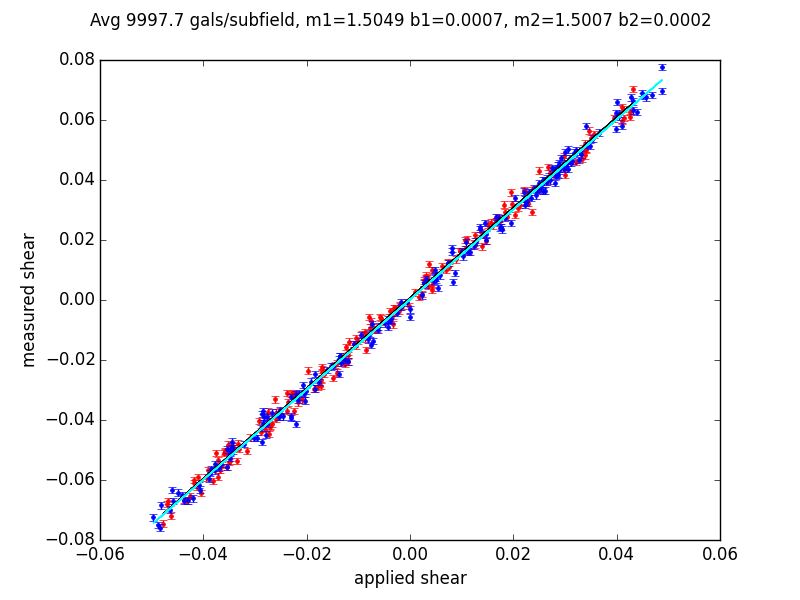
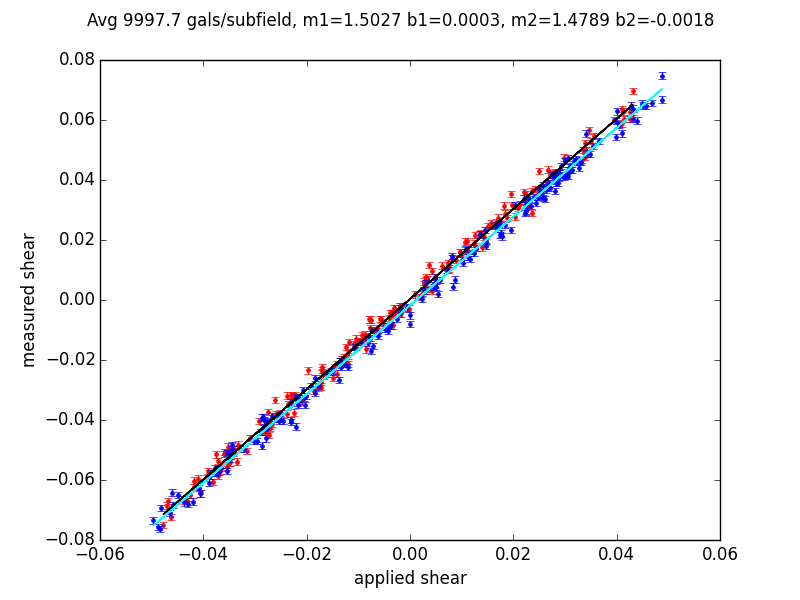
Review comment change

Changed region(s): [[0.1875, 0.12, 0.8438, 0.9], [0.0938, 0.0, 0.9062, 0.06]]

diff --git a/index.rst b/index.rst
@@ -38,28 +38,40 @@
 
 :tocdepth: 1
 
-This document describes a framework which was created to test how well shape measurement algorithms in the DM Stack can measure galaxy shear.  The targets algorithms for this framework are in the package meas_modelfit. This package houses both the CModel algorithm -- used to measure galaxy shapes) and the ShapeletPsfApprox Algorithm (SPA) -- used to create a parameterized model of the Psf (point spread function). However, the framework is set up to allow similar tests on other shape measurment algorithms.
+This document describes a framework which was developed to test DM Stack shape measurement algorithms, as well as to compare algorithm configurations. It can be used with any algorithm housed in a measurement "plugin" as defined by the lsst.meas.base package.  The plugin must produce a result which can be used to calculate galaxy ellipticity.
 
-Shear measurement was done on images created by Great3Sims and GalSim as described below.  However, the Point Spread Function (Psf) which was applied to the simulated galaxies was created by PhoSim using an LSST simulation.
+The algorithms tested in this document are in the meas_modelfit package, which houses both the CModel algorithm -- used to measure galaxy shapes) and the ShapeletPsfApprox Algorithm (SPA) -- used to create a parameterized model of the PSF (point spread function). Our goal was to run both PSF approximation and shape measurement on large numbers of simulated galaxies with known shear and PSF distortions, and to compare the shear measurements produced.
 
-Our goal was to run both Psf approximation and shape measurement algorithms on large numbers of galaxies that have been subjected to known constant shear and Psf distortions, and to characterize the shear bias of these algorithms.
+We hope in the future to test a variety of shape algorithms, including future versions of CModel, which was still under development when the test described here were done. The work described here is therefore of interest for the test techniques developed than for any particular result.
 
 Techniques used in this simulations
-=================================================
+===================================
 
-Using Great3Sims: 
--------------------------
-The great3-public repository (https://github.com/barnabytprowe/great3-public) provided the scripts for creating catalogs of galaxies. This package draws galaxy parameters at random from a known distribution, and selects a Psf and applied shear for each galaxy.  The outputs are an "epoch catalog" and a yaml file. The epoch catalog has one line per galaxy, and is used as the "truth" value in our later tests. The yaml file is fed to GalSim to create grids of postage stamps (in fits format) of the galaxies.
+Galaxy Shear Experiments Scripts
+--------------------------------
+
+The framework for running these tests can be found in the repository https://github.com/lsst-dm/galaxy_shear_experiments.  The README in this repository contains instructions for running this code.
+
+The Python scripts were used to automate the production of simulation images, running the shape measurement algorithm, and analysis for shear bias. The scripts can be used in single process mode, in a parallel processing mode on multiple core machines, or with a batch system such as the SLAC Batch Farm.
+
+Test configurations and the PSF libraries actually used are not currently part of this repository, but will be added in the future. Scripts for parallel processing at SLAC will also be added as they are completed.
+ 
+The great3sims scripts 
+----------------------
+
+The great3-public repository (https://github.com/barnabytprowe/great3-public) provided the scripts for creating catalogs of galaxies. This package draws galaxy parameters at random from a known distribution, and selects a PSF and applied shear for each galaxy.  The scripts can output an "epoch catalog" and a yaml file for each value of applied shear.  The epoch catalog has one row for each simulated galaxy, and gives the "true" galaxy characteristics and applied distortions. The yaml file and epoch catalog are in turn fed to GalSim, which creates a fits file of postage stamps of the galaxies.
 
 Branch Setup:
-^^^^^^^^^^^^
-Galaxy samples were created using the Great3sims "control/ground/constant" branch. Each subfield has a single constant shear and shear angle. The galaxies are created in pairs rotated at 90 degrees.  All galaxies in a subfield are subjected to the same applied shear.  
+^^^^^^^^^^^^^
+The galaxy samples were selected using the great3sims "control/ground/constant" branch. This branch specifies its galaxies in "subfields", where a subfield is just a group of galaxies with the same applied shear. The size of the postage stamps and the number of galaxies per subfield is configurable.  Details of the configuration used are described with each test below.
+ 
+Note that all of our simulations, the galaxies are created as 90 degree rotated pairs to reduce shape noise.
 
-One important modification to Great3Sims was to sample the Psf for each galaxy from a PhoSim Psf Library (described below). The Psf images were typically 67x67 pixels at the LSST plate scale.
+One important modification to great3Sims was to sample the PSF for each galaxy from a PhoSim PSF Library (described below). Ordinarily, great3sims supplies the PSF specification to GalSim as a parameterized model. We suppled our own PSF libraries (a set of 67x67 pixel images at the LSST plate scale), using the GalSim InterpolatedImage type.
 
-Using GalSim:
--------------------------
-See http://galsim-developers.github.io/GalSim for information about GalSim and how it is used. As discussed above, the Great3Sims package supplies an epoch catalog for each subfield, as well as a matching yaml file which feeds the galaxy parameters to GalSim.  The result is an image of galaxies on a grid which can be used to make cutouts for measurement.
+GalSim
+------
+See http://galsim-developers.github.io/GalSim for information about GalSim and how it is used. As discussed above, the great3Sims package supplies an epoch catalog for each subfield, as well as a matching yaml file which feeds the galaxy parameters to GalSim.  The result is a gridded image of galaxies which can be used to make galaxy postage stamps.
 
   .. figure:: /_static/sample_image-000-1.png
      :name: sample_images
@@ -69,27 +81,34 @@ See http://galsim-developers.github.io/GalSim for information about GalSim and h
 
 The epoch catalog is named epoch_catalog-nnn-m.fits, with nnn the ordinal number of the subfield, and m the epoch (always 0 in our tests).  GalSim creates a matching image-nnn-m.fits with a 96x96 pixel image for each galaxy in the sample.
 
-Creating the Phosim Psf Library:
--------------------------
-PhoSim is a ray tracing simulator which is used create images of galaxies and stars. This simulator has a description of the LSST telescope and camera, and will create simulated images with distortions due to variations in the atmosphere and optics. Please see https://confluence.lsstcorp.org/pages/viewpage.action?pageId=4129126 for a description of this software.
+Creating the Phosim PSF Library:
+--------------------------------
+PhoSim (version 3.4.2) is a ray tracing simulator which is used create images of galaxies and stars. This simulator has a description of the LSST telescope and camera, and will create simulated images with distortions due to variations in the atmosphere and optics. Please see https://confluence.lsstcorp.org/pages/viewpage.action?pageId=4129126 for a description of this software.  
 
-We used PhoSim to create stellar images scattered at random over the LSST focal plane. The LSST focal plane is divided into 21 rafts with 9 sensors per raft.  To create a library of Psf images, 10000 positions were selected at random and PhoSim was instructed to create a stellar image at each position.  After removing unusable stars (those which did not fall fully on any particular sensor, or which were close to another star), between 7000 and 8000 usable stellar images remained for each Psf library.
+We used PhoSim to create stellar images scattered at random over the LSST focal plane. The LSST focal plane is divided into 21 rafts with 9 sensors per raft.  To create a library of PSF images, 10000 positions were selected at random and PhoSim was instructed to create a stellar image at each position.  After removing unusable stars (those which did not fall fully on any particular sensor, or which were close to another star), between 7000 and 8000 usable stellar images remained for each PSF library.
 
-Psf libraries were created for "raw" seeing values of 0.5, 0.7, and 0.9 arcseconds through LSST filters (f2 and f3). The seeing is actually somewhat worse after all the simulated distortions are applied. 
+PSF libraries were created for "raw" seeing values of 0.5, 0.7, and 0.9 arcseconds through LSST filters f2 and f3 (r and i). The measured FWHM for these stellar images is actually somewhat worse after all the simulated distortions are applied. 
 
-Most of the tests during this cycle were run using the f3_0.7 library.  
+Most of the tests during this cycle were run using the f2_0.7 or f3_0.7 libraries.  
 
 Doing Measurements:
 -------------------------
 
-The goal of the framework is to compare the results of a shape measurement algorithm with the known constant shear values which stored in the epoch catalog.  The algorithm must be housed in an lsst.meas.base measurement plugin so that it can be used by the LSST DM Stack. And it must produce some measurement, such as second moments, which can be used to calculate galaxy ellipticity.
+The goal of the framework is to compare the results of some shape measurement plugin with the known shear values which stored in the epoch catalog.  The algorithm must be housed in an lsst.meas.base measurement plugin,  and it must produce either measure ellipticity, or some other value (e.g., second moments) which can be used to calculate ellipticity. 
 
-Our tests in this study were with the CModel algorithm in lsst.meas.modelfit package, but this framework could be used to test any shape algorithm which is housed in a measurement plugin.
+Our tests in this study were with the CModel algorithm with PSF modelling using ShapeletPsfApprox. The way in which these measurements are run is described in the galaxy_shear_experiments README.
 
 Shear Bias Analysis:
 ====================
 
-We wish to estimate the multiplicative and additive biases of our algorithm for both components of shear. For each shear component, this is done by plotting the measured shear against the applied shear from the epoch catalog.  The multiplicative bias is the slope of our regression line, and the additive bias is the intercept.
+We model shear bias as a combination of multiplicative bias (m) and additive bias (c)
+
+      gi = mi * g'i + ci
+
+where g = (g1,g2) is the true shear and g' = (g'1, g'2) is the measured shear.
+
+To estimate these values, we perform a linear regression of applied shear vs. measured shear for both shear components.
+
 
   .. figure:: /_static/figure_1.png
      :name: figure_1
@@ -97,14 +116,16 @@ We wish to estimate the multiplicative and additive biases of our algorithm for 
 
      Graph of regression line fit to 200 subfield measurements
 
+The individual points are for each of the 200 subfields: g1 values are shown in red, and g2 in blue. The g1 regression line is in black to make it visible on the plot.
+
 In this example, the regression lines lie very close to each other, with the measured shear multiplicatively biased by about +50%.  The intercepts deviate from zero by 7e-4 and 2e-4 respectively.
+
+Of the 10000 galaxies in each subfield, a small percentage could not be measured due to fatal measurement errors.
 
 Comparison of Shear Bias for Different Algorthms:
 -------------------------------------------------
 
-To see how different algorithms measure up against each other, we plot their shear biases against each other. In these tests we take what we regard as a preferred measurement, in this case a measurement using a high order fit of the Psf (3773) against lower order fits: SingleGaussian, DoubleGaussian, and Full. These are the default parameterizations of the meas_modelfit algorithm ShapeletPsfAlgorithm, which we shall explore in more detail later in this document.
-
-In this graph, we see how the Single and Double Gaussian fits of the Psf are very different than the high order fit, 3773.  The parameterization "Full", however is pretty close to the 3773 algorithm in all four shear bias values.
+To see how different algorithms measure up, we plot their shear biases against each other. The plot shown below is a comparison of different parameterizations of the ShapeletPsfApprox(SPA) algorithm. Here, we compare a high order fit of the PSF (3773) against three lower order fits: SingleGaussian, DoubleGaussian, and Full. These are the predefined SPA parameterizations, and will be described in more detail later in this document.
 
   .. figure:: /_static/figure_3.png
      :name: figure_3
@@ -112,53 +133,51 @@ In this graph, we see how the Single and Double Gaussian fits of the Psf are ver
 
      Comparison of shear bias for different algorithms
 
+Note that the errorbars are shown in this graph, but are very small compared to the range of shear biases produced by these algorithms.
+
 How errors were determined:
 ---------------------------
 
-In the tests discussed below, we really ran only one simulation for each test. 
-However, the large number of galaxies are really needed just to beat down the shot noise. Running 10 or even 20 samples of this size and measuring the variation between samples would be a useful technique for estimating the errors in our shear biases measurements.
+The errors in the shape bias were based on the difference between the measured and applied shear in each subfield. We calculated our errors in two ways. One was to use error estimators from each subfield to analytically determine the errors in the shear bias values. The other was to use a bootstrap technique to see how the regression values actually varied within resampled distributions.
 
+In our test, we ran only one simulation for each test. Running 10 or even 20 samples of the same size and measuring the variation between samples would have been a useful technique for more accurately estimating the errors, and should be done in the future.
 
-Wwe did not run multiple instances of the 2 million galaxy simulation, and we calculated our errors by attempting to look at the variation within the shear measurements in each subfield. We calculated our errors in two ways. One was to use estimators of the errors from each subfield to analytically determine the errors in the slope and intercept measurements. The other was to use a bootstrap technique to see how the bias parameters varied within resampled distributions.
+1. Calculated Errors
+^^^^^^^^^^^^^^^^^^^^
 
-1. Estimating the error of the mean in each subfield. 
-^^^^^^^^^^^^^^^^^^^^^^^^^
+If (e1,e2) is the measure of the galaxy ellipticity and (g1,g2) is the applied shear, the deviation of (e1-g1,e2-g2) from (0,0) is a measure of the error. Of course, this measurement is dominated by shape noise, so we average over an subfields which contain large number of galaxies with the same applied shear.
 
-If (e1,e2) is the measure of the galaxy ellipticity and (g1,g2) is the applied shear, the deviation of (e1-g1,e2-g2) from (0,0) is a measure of our error.  Of course, this measurement is dominated by shape noise. By averaging e1 and e2 over and entire subfield, we get an estimator of the applied shear, as well as the error in this estimation.
-
-Since the regression to determine m1, c1, m2 and c2 uses as its data the (e1avg, e2avg)  vs. (g1, g2), we can use the errors in e1avg and e2avg to determine the errors in the regression values.  See Numerical Recipes section 15.2 for a description of this calculation.
+Since the regression to determine m1, c1, m2 and c2 uses as its data the (e1avg, e2avg)  vs. (g1, g2), we can use the errors in e1avg and e2avg to determine the errors in the regression values.  See William H. Press, Numerical Recipes, 3rd edition, section 15.2 for a description of this calculation.
 
 2.  Bootstrap estimation
 ^^^^^^^^^^^^^^^^^^^^^^^^^
 
-However, since we did not entirely trust the approach under (1), we attempted a second approach using bootstrapping to produce different resampled populations of galaxies from out single set of 2 million galaxies. This allowed us to do the shear bias calculation multiple times and observe the variation in the shear parameters on these different populations. The great3sims subfields are actually 5000 galaxy pairs, so our resampling was actually done by drawing from each sample of 5000 with replacement.
+We did not entirely trust the approach under (1), so we used bootstrap resampling to produce different resampled populations of galaxies from our single set of 2 million galaxies. This allowed us to do the shear bias calculation multiple times and observe the variation in the shear parameters on these different populations. The great3sims subfields are actually 5000 galaxy pairs, not 10000 independent galaxies, so we actually resampled in pairs.
 
 The bootstrap method consistently gives an error which is larger than the analytic approach by a factor of 2.1-2.3.
 
-Since the bootstrap estimation indicates a larger error, we decided to increase our errors uniformly by a factor of 2.2 for this study.
+Since the ratio of the two was roughly constant and the calculated error is easier to get, we uniformly took as our error the calculated error multiplied by 2.2.
 
 Testing Parameterizations of ShapeletPsfApprox (DM-1136 and DM-4214)
-========================
+====================================================================
 
-These are a set of tests which are intended to test ShapeletPsfApprox(SPA), and in particular, to find the shapelet order above which there is little additional value.  SPA is a four component “multi-shapelet function” model of the Psf, where the four components from narrowest to broadest are named “inner”, “primary”, “wings”, and “outer”.  An SPA model is designated in this document with four numbers:  for example, 1234 means inner order = 1, primary order = 2, wings order = 3, and outer order = 4.
+This set set of tests were intended to test ShapeletPsfApprox(SPA), and in particular, to find out how high the shapelet orders have to be to produce a stable PSF estimation.  SPA is a four component “multi-shapelet function” model of the PSF, where the four components (from narrowest to broadest) are named “inner”, “primary”, “wings”, and “outer”.  An SPA model is designated in this document with four numbers:  for example, 1234 means inner order = 1, primary order = 2, wings order = 3, and outer order = 4.
 
 Test setup
 --------------
 
-Subfields: 10000 galaxies/subfield in 5000 pairs, all with the same applied shear and shear angle
- 
-          200 subfields total (2 million galaxies) at a variety of shear and shear angles
+Subfields: 100x100 (10000 galaxies in 5000 pairs). A total of 200 subfields for each test, with g1 and g2 selected from the great3sims default distribution.
 
-Psf: filter f2 and "raw seeing" 0.7 arcsecs. Single Psf selected from f2_0.7 PhoSim library.
+PSF: filter f2 (r) and "raw seeing" 0.7 arcsecs. Single PSF selected from f2_0.7 PhoSim library.
 
-Error estimation increased by x2.2 as indicated by bootstrap tests.
+Error estimation increased by multiplying the calculated error by 2.2.  This correction was indicated by bootstrap tests.
 
 
-Finding "best" parameterization for ShapeletPsfApprox.
---------------
+Finding "best" parameterization for ShapeletPsfApprox
+-----------------------------------------------------
 We are hoping to find out how high the order of the estimation parameters must be before our measurement of the bias parameters plateaus.
 
-Comparing parameterization is a little tricky, as the effects of the parameters are not independent of each other.  To make this comparison more tractable, I've chose to take slices through the parameter space, relying to some extent on the knowledge that the “primary” parameter has the biggest effect, followed by the “wings”.  The “inner” and “outer” seem to have less of an effect.  
+Comparing parameterizations is a little tricky, as the effects of the parameters are not independent of each other.  To make this comparison more tractable, I've chose to take slices through the parameter space, relying to some extent on the previous experience that the “primary” parameter has the biggest effect, followed by the “wings”.  The “inner” and “outer” seem to have less of an effect.  
 
 My first set was to compare parameterizations of the form 0nn0, where n=2,3,4,5,6.  The 3773 parameterization is shown for reference.
 
@@ -193,67 +212,71 @@ However, note the similar comparisons with inner and outer set to 2 or 3. The pr
 
      Parameterizations of the form 3nn3.
 
-Here is a full set of comparisons against 3773 where primary and wings are the same, and inner and outer are the same.  They suggest that order 3 may be nearly as good as the higher orders, with improvement in the Psf modeling appearing to max out between order 3 and 4.
+Here is a full set of comparisons against 3773 where primary and wings are the same, and inner and outer are the same.  They suggest that order 3 may be nearly as good as the higher orders, with improvement in the PSF modeling appearing to max out between order 3 and 4.
 
 .. literalinclude:: /_static/table_2.txt
 
 Conclusion:
-----------
+-----------
+The tests clearly favor order 3 parameterizations or higher, with 3333 within the errorbars of 3773.  It also appears that it is important to have at least order 2 in the inner and outer components.
 
-It is hard to draw too many hard conclusions from these studies. For one thing, the models are close enough to each other above order 3 that the accuracy of our error measurement becomes very important. If the 2.2 multiplier which we applied (consistent with the bootstrap resampling) is correct, then orders above 4 not a useful improvement with the 2 million galaxies in this test.
-
-However, it does appear that the order 2 parameterizations are significantly different from 3773, and that order 3 is needed at least in the primary and wings modelling. But there isn't all that much to choose from above order 3.  In fact, 2332 seems to be quite close to 3773, and 3333 is even a little better.
-
-It is obvious that a lot depends on our error assumptions. In future studies, we should create several populations of the same setup to make true variation easier to determine.  Varying the Psf from point-to-point on the focal plane may also have an effect which we have not studied in this set of tests.
+It is obvious that a lot depends on our error assumptions. Most of the parameterizations at order 3 or higher do not appear to be significantly different, but would be without the 2.2x error multiplier. In future studies, we will run more simulations to improve our understanding of the errors.
 
 Testing CModel Configurations
-========================
-Our earliest tests were tests of the CModel algorithm, leaving the SPA for Psf estimation at its defaults.  CModel is a shape measurement algorithm in the meas_modelfit package of the DM Stack. This study was done partly to see the effects varying the CModel task config, and partly to determine how large a galaxy sample was required.
+=============================
 
-As a result of these these tests, we decided to move our tests for single host, multi-core machines at Davis to the computing farm at SLAC. 
+Our earliest tests were tests of CModel configurations. For these tests, the SPA was held at its defaults, and Cmodel was run through a range of its configuration values.
+
+We reproduce here a couple of results having to do with the size of the measurement area used by the CModel algorithm.
+
+These tests were also useful is assessing how many galaxies would be needed to see significant differences. As a result of these these tests, we decided to move our tests for single host, multi-core machines at Davis to the computing farm at SLAC, as large galaxy populations were seen to be needed. 
 
 Test setup
---------------
-Subfields: 1000 galaxies/subfield in 500 pairs, all with the same applied shear and shear angle
-           The applied shear was varied in 6 steps from .0001 to .05.
+----------
+Subfields: 32x32 (1024) galaxies/subfield, or 512 pairs. The applied shear was varied in 6 steps from .0001 to .05. The shear angle was random from 0-360 for each of subfield.  While this subfield arrangement has only specific values of g = sqrt(g1*g1 + g2*g2), it actually has a very uniform selection of g1 and g2.
 
-The shear angle was selected randomly from 0-360 in each of the subfields
+Tests varied in size from as few as 128 subfields to as many as 2048. Initial tests were done with a small number of galaxies, but the number of subfields was increased until we were able to clearly see the results.
 
-These tests varied in size, from as few as 128 subfields to as many as 2048 (1-12 million galaxies). 
+PSF: filter f3 (i) and "raw seeing" 0.7 arcsecs.  Random PSF selected for each galaxy.
 
-Psf: filter f3 and "raw seeing" 0.7 arcsecs.  Psf selected randomly for each galaxy
-
-Error estimation indicated by subfield variation. No bootstraps were run.
+Error estimation indicated by using the "calculated" regression errors. No bootstraps were run.
 
 Test Descriptions:
---------------
-The goal of these tests was to demonstrate the effect of different the CModel measurement configurations on the shear bias. 
+------------------
+Initially, the test was done with 128 subfields at 6 shear values (.0001, .01, .02, .03, .04, .06), for a total of 786,432 galaxies.
 
-These tests were done using Test Setup A. 
+When these intial tests were not sensitive enough, tests of 1024 subfields and later 2048 subfields were tried (up to 6 million galaxies).
 
-Initially, the test was done with 128 subfields at 6 shear values (.0001, .01, .02, .03, .04, .06).  This is a total of about 6 x 128 x 1024 = 786432 galaxies.
+The results of the earlier tests were published with the Summer 2015 issues, DM-3375 and DM-1135. These tests showed obvious trends, but did not have large enough galaxy samples to display significant pair-wise differences. 
 
-Where these tests did not show enough sensitivity, tests of 1024 subfields and 2048 subfield were used (6 and 12 million galaxies).
+The results shown below were done for DM-3983, which was a retest with 1024 subfields for each of the 6 shear values, or about 6 million galaxies total. Because of time constraints, only a few of the critical nGrowFootprint and stampsize values were retested.
 
 nGrowFootprint Test:
-^^^^^^^^^^^^^^^^^^^
+^^^^^^^^^^^^^^^^^^^^
 
-In this test, the nGrowFootprint configuration of CModel was varied from 0 to 10.
-(add reference to initial test DM-3375 and later test DM-????)
+In this test, the nGrowFootprint configuration of CModel was varied from 0 to 10. The meas_base measurement algorithm starts with a galaxy "footprint", which is derived from the set of pixels above the detection threshold.  This default footprint is used when nGrowFootprint = 0.  For positive values of nGrowFootprint, the measurement area is expanded in all directions by that amount. Values of nGrowFootprint which would extend the footprint beyond the bounds of the original postage stamp are not allowed.
 
   .. figure:: /_static/nGrow.larger.png
-     :name: figure_7
+     :name: nGrow.larger 
      :target: _images/nGrow.larger.png
 
      nGrowFootprint vs. shear bias
 
 Stampsize Test:
-^^^^^^^^^^^^^^^^^^^
+^^^^^^^^^^^^^^^
 
-In this test, the galaxy stampsize was varied from 20 to 64.  The original galaxy postage stamps created by GalSim were 96x96 at the LSST plate scale.  The stampsize test was to feed CModel smaller postage stamps by trimming the edges of each galaxy image.
-(add reference to test DM-1135 and later test DM-????)
+In this test, the measurement footprint was always a square, regardless of the contours of the actual galaxy.  The same GalSim images were used in all these tests, but the stampsize was decreased in software by trimming the postage stamps provided to the CModel algorithm.  The original galaxy postage stamps created by GalSim were 96x96 at the LSST plate scale.  Test were run from 20x20 to 96x96. The values for 20, 40, and 64 are shown below.
+
   .. figure:: /_static/stampsize.larger.png
-     :name: figure_7
+     :name: stampsize.larger
      :target: _images/stampsize.larger.png
 
      stampsize vs. shear bias
+
+Conclusion:
+-----------
+We were able to show significant differences in measured shear values, both by allowing the footprint to expand, and by forceably truncating the postage stage for each galaxy.
+
+The original 768K galaxy sample was not large enough to show these differences.  A much larger study of 6 million galaxies was adequate.
+
+We did not pursue just how large the galaxy population had to be, or exactly what values of these two tests were optimal.
